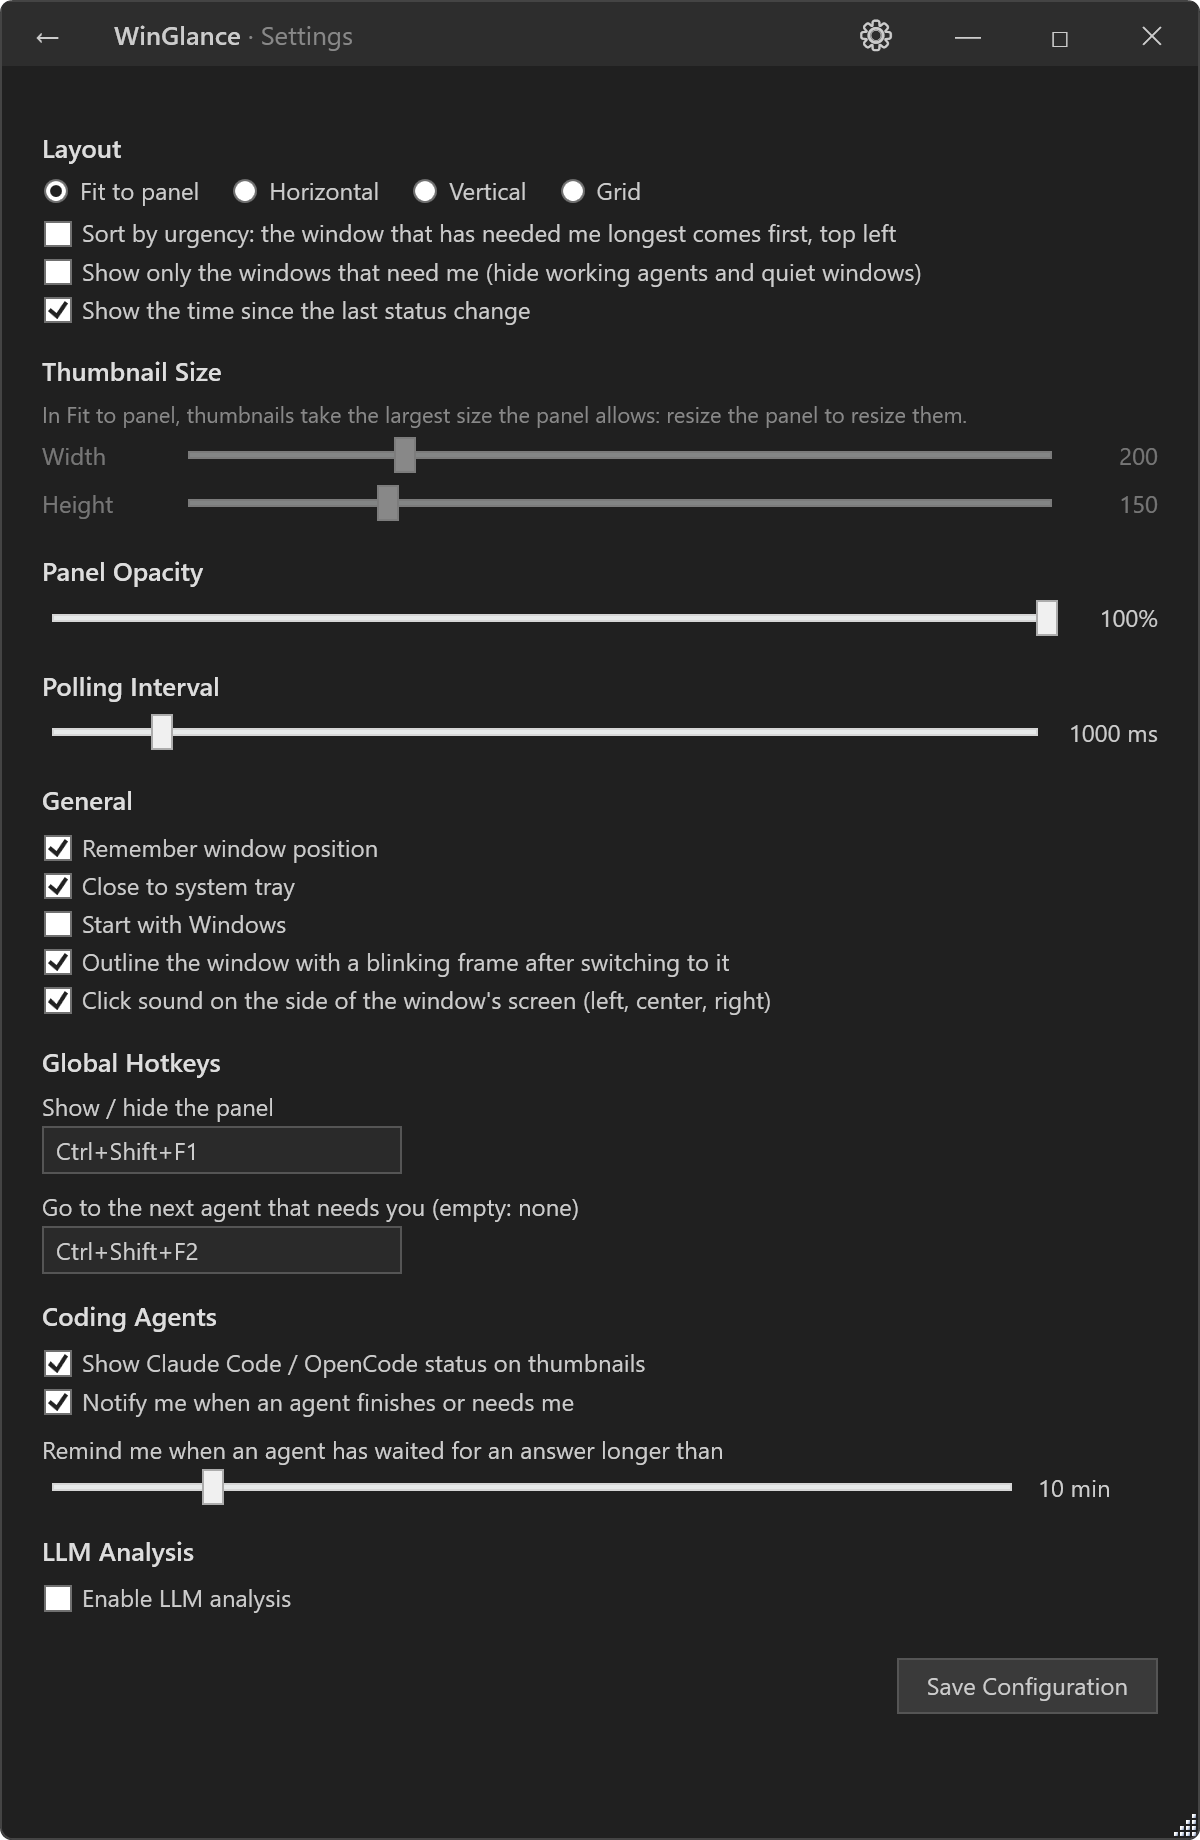
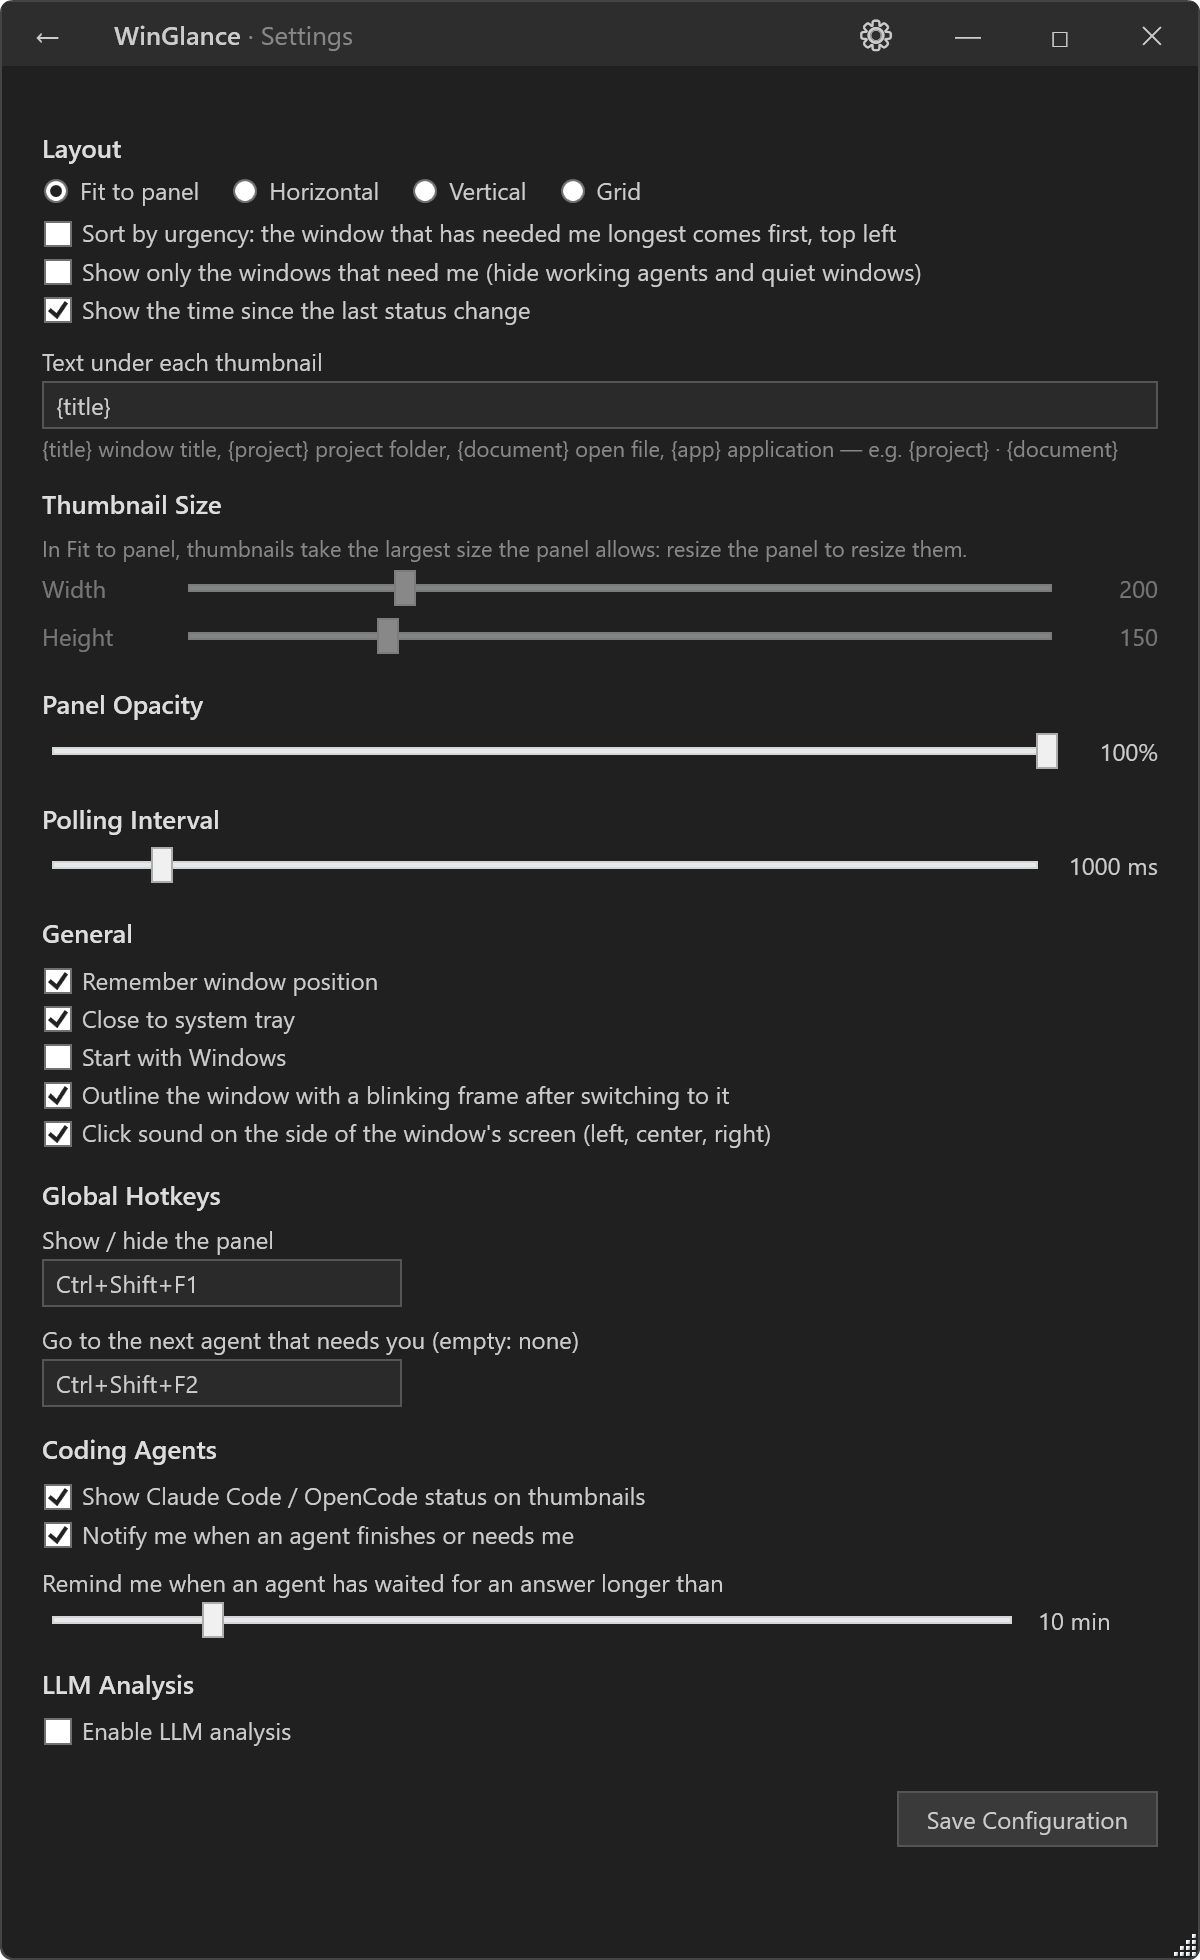
Let a template set the text under each thumbnail
titleFormat (Settings > Layout, default "{title}") replaces {title},
{project} (agent folder, otherwise the title part before the
application name), {document} (first title part) and {app}, so that
for instance "{project} · {document}" keeps the project readable when
a long title is cut. The full title stays in the tooltip; a result made
of separators only falls back to the title. Applied live, saved with
the settings; manual, specification, architecture and the Settings
screenshot updated.

diff --git a/src/WinGlance/Views/SettingsTab.xaml b/src/WinGlance/Views/SettingsTab.xaml
@@ -143,6 +143,13 @@
             <CheckBox Content="Show the time since the last status change"
                       IsChecked="{Binding ShowStatusTime}"
                       Foreground="{DynamicResource PrimaryText}" Margin="0,2" />
+            <TextBlock Text="Text under each thumbnail" Style="{StaticResource Label}" Margin="0,8,0,2" />
+            <TextBox Text="{Binding TitleFormat, UpdateSourceTrigger=PropertyChanged}"
+                     Background="{DynamicResource InputBackground}" Foreground="{DynamicResource PrimaryText}"
+                     BorderBrush="{DynamicResource InputBorder}" Padding="4,3"
+                     AutomationProperties.Name="Text under each thumbnail" />
+            <TextBlock Text="{}{title} window title, {project} project folder, {document} open file, {app} application — e.g. {project} · {document}"
+                       Foreground="{DynamicResource DimText}" FontSize="11" TextWrapping="Wrap" Margin="0,2,0,0" />
 
             <!-- ── Thumbnail Size ─────────────────────────── -->
             <TextBlock Text="Thumbnail Size" Style="{StaticResource SectionHeader}" />

diff --git a/src/WinGlance/Views/PreviewTab.xaml b/src/WinGlance/Views/PreviewTab.xaml
@@ -204,7 +204,7 @@
                                         </TextBlock>
 
                                         <!-- Window title -->
-                                        <TextBlock Text="{Binding Title}"
+                                        <TextBlock Text="{Binding DisplayText}"
                                                    Foreground="{DynamicResource SecondaryText}"
                                                    FontSize="11"
                                                    Margin="4,2,4,2"

diff --git a/src/WinGlance/Services/WindowTitleFormat.cs b/src/WinGlance/Services/WindowTitleFormat.cs
@@ -1,0 +1,69 @@
+using WinGlance.Models;
+
+namespace WinGlance.Services;
+
+/// <summary>
+/// Builds the text shown under a thumbnail from a template set in Settings, e.g.
+/// "{project} · {document}". The full window title stays in the tooltip.
+/// </summary>
+internal static class WindowTitleFormat
+{
+    /// <summary>The default template: the window title, as before templates existed.</summary>
+    public const string Default = "{title}";
+
+    // Separators of window titles ("file - Folder - Visual Studio Code")
+    private static readonly string[] Separators = [" - ", " — ", " – ", " | "];
+
+    /// <summary>
+    /// Replaces <c>{title}</c>, <c>{project}</c>, <c>{document}</c> and <c>{app}</c> in the
+    /// template (case-insensitive). Falls back to the window title when the result is blank.
+    /// </summary>
+    public static string Apply(string? template, TrackedWindow window)
+    {
+        if (string.IsNullOrWhiteSpace(template))
+            return window.Title;
+
+        var text = template
+            .Replace("{title}", window.Title, StringComparison.OrdinalIgnoreCase)
+            .Replace("{project}", ProjectOf(window), StringComparison.OrdinalIgnoreCase)
+            .Replace("{document}", DocumentOf(window.Title), StringComparison.OrdinalIgnoreCase)
+            .Replace("{app}", window.DisplayName, StringComparison.OrdinalIgnoreCase)
+            .Trim();
+
+        // A template whose fields are all empty must not leave the thumbnail unnamed
+        return text.Trim(' ', '·', '-', '|', '—', '–').Length == 0 ? window.Title : text;
+    }
+
+    /// <summary>
+    /// The project of a window: the folder of its coding agent when there is one, otherwise the
+    /// title segment before the application name ("file - Folder - Visual Studio Code" → "Folder"),
+    /// or the whole title when it has a single segment.
+    /// </summary>
+    public static string ProjectOf(TrackedWindow window)
+    {
+        if (!string.IsNullOrWhiteSpace(window.Agent?.Project))
+            return window.Agent!.Project!;
+
+        var segments = Segments(window.Title);
+        return segments.Length switch
+        {
+            0 => string.Empty,
+            1 => segments[0],
+            2 => segments[0],
+            _ => segments[^2],
+        };
+    }
+
+    /// <summary>The first segment of a title: the open file or document ("Readme.md - Folder - App" → "Readme.md").</summary>
+    public static string DocumentOf(string title)
+    {
+        var segments = Segments(title);
+        return segments.Length == 0 ? string.Empty : segments[0];
+    }
+
+    private static string[] Segments(string title) =>
+        title.Split(Separators, StringSplitOptions.RemoveEmptyEntries | StringSplitOptions.TrimEntries)
+            .Select(s => s.TrimStart('●', ' ')) // VS Code's unsaved-changes dot
+            .Where(s => s.Length > 0)
+            .ToArray();
+}

diff --git a/src/WinGlance.Tests/Services/WindowTitleFormatTests.cs b/src/WinGlance.Tests/Services/WindowTitleFormatTests.cs
@@ -1,0 +1,69 @@
+using WinGlance.Models;
+using WinGlance.Services;
+
+namespace WinGlance.Tests.Services;
+
+public class WindowTitleFormatTests
+{
+    private const string VsCodeTitle = "Adaptation française de la doc - Claude4Business - Visual Studio Code";
+
+    private static TrackedWindow Window(string title, string? agentFolder = null)
+    {
+        var window = new TrackedWindow((IntPtr)1, "Code", "VS Code") { Title = title };
+        if (agentFolder is not null)
+        {
+            var session = new AgentSession(AgentKind.Claude, 1, agentFolder, AgentStatus.Idle, null);
+            window.Agent = AgentBadge.FromSessions([session]);
+        }
+
+        return window;
+    }
+
+    [Theory]
+    [InlineData("{title}", VsCodeTitle)]
+    [InlineData("{project}", "Claude4Business")]
+    [InlineData("{document}", "Adaptation française de la doc")]
+    [InlineData("{app}", "VS Code")]
+    [InlineData("{project} · {document}", "Claude4Business · Adaptation française de la doc")]
+    [InlineData("{PROJECT}", "Claude4Business")] // placeholders ignore case
+    public void Apply_ReplacesThePlaceholders(string template, string expected)
+    {
+        Assert.Equal(expected, WindowTitleFormat.Apply(template, Window(VsCodeTitle)));
+    }
+
+    [Theory]
+    [InlineData(null)]
+    [InlineData("   ")]
+    public void Apply_BlankTemplate_ShowsTheTitle(string? template)
+    {
+        Assert.Equal(VsCodeTitle, WindowTitleFormat.Apply(template, Window(VsCodeTitle)));
+    }
+
+    [Fact]
+    public void Apply_OnlySeparatorsLeft_FallsBackToTheTitle()
+    {
+        // A template whose fields come out empty must not leave the thumbnail unnamed
+        Assert.Equal(VsCodeTitle, WindowTitleFormat.Apply(" · - ", Window(VsCodeTitle)));
+    }
+
+    [Fact]
+    public void ProjectOf_AgentWindow_UsesTheAgentFolder()
+    {
+        Assert.Equal("BookAmPlus", WindowTitleFormat.ProjectOf(Window(VsCodeTitle, @"w:\00_DEV\BookAmPlus")));
+    }
+
+    [Theory]
+    [InlineData("api-server", "api-server")]
+    [InlineData("Untitled - Notepad", "Untitled")]
+    [InlineData("● main.cs - WinGlance - Visual Studio Code", "WinGlance")]
+    public void ProjectOf_FromTheTitle(string title, string expected)
+    {
+        Assert.Equal(expected, WindowTitleFormat.ProjectOf(Window(title)));
+    }
+
+    [Fact]
+    public void DocumentOf_StripsTheUnsavedChangesDot()
+    {
+        Assert.Equal("main.cs", WindowTitleFormat.DocumentOf("● main.cs - WinGlance - Visual Studio Code"));
+    }
+}

diff --git a/src/WinGlance/ViewModels/SettingsViewModel.cs b/src/WinGlance/ViewModels/SettingsViewModel.cs
@@ -35,6 +35,7 @@ internal sealed class SettingsViewModel : ViewModelBase
     private bool _sortByUrgency;
     private bool _showOnlyWindowsThatNeedMe;
     private bool _showStatusTime;
+    private string _titleFormat;
     private int _remindAfterMinutes;
 
     // LLM settings
@@ -80,6 +81,7 @@ internal sealed class SettingsViewModel : ViewModelBase
         _sortByUrgency = config.SortByUrgency;
         _showOnlyWindowsThatNeedMe = config.ShowOnlyWindowsThatNeedMe;
         _showStatusTime = config.ShowStatusTime;
+        _titleFormat = config.TitleFormat;
         _remindAfterMinutes = config.AgentDetection.RemindAfterMinutes;
 
         _llmEnabled = config.Llm.Enabled;
@@ -145,6 +147,20 @@ internal sealed class SettingsViewModel : ViewModelBase
         {
             if (SetProperty(ref _showStatusTime, value))
                 _previewViewModel.ShowStatusTime = value;
+        }
+    }
+
+    /// <summary>
+    /// Template of the text under each thumbnail ({title}, {project}, {document}, {app}).
+    /// Applied live to the preview; persisted by <see cref="Save"/>.
+    /// </summary>
+    public string TitleFormat
+    {
+        get => _titleFormat;
+        set
+        {
+            if (SetProperty(ref _titleFormat, value ?? string.Empty))
+                _previewViewModel.TitleFormat = _titleFormat;
         }
     }
 
@@ -473,6 +489,7 @@ internal sealed class SettingsViewModel : ViewModelBase
         _config.SortByUrgency = SortByUrgency;
         _config.ShowOnlyWindowsThatNeedMe = ShowOnlyWindowsThatNeedMe;
         _config.ShowStatusTime = ShowStatusTime;
+        _config.TitleFormat = string.IsNullOrWhiteSpace(TitleFormat) ? Services.WindowTitleFormat.Default : TitleFormat.Trim();
         _config.ThumbnailWidth = ThumbnailWidth;
         _config.ThumbnailHeight = ThumbnailHeight;
         _config.PanelOpacity = PanelOpacity;

diff --git a/src/WinGlance/ViewModels/PreviewViewModel.cs b/src/WinGlance/ViewModels/PreviewViewModel.cs
@@ -39,6 +39,7 @@ internal sealed class PreviewViewModel : ViewModelBase, IDisposable
     private bool _sortByUrgency;
     private bool _showOnlyWindowsThatNeedMe;
     private bool _showStatusTime = true;
+    private string _titleFormat = WindowTitleFormat.Default;
     private bool _isPointerOver;
     private bool _isEmptyAfterFilter;
     private int _agentsWaiting;
@@ -353,6 +354,22 @@ internal sealed class PreviewViewModel : ViewModelBase, IDisposable
     }
 
     /// <summary>
+    /// Template of the text shown under each thumbnail, e.g. "{project} · {document}"
+    /// (see <see cref="WindowTitleFormat"/>). Applied at once.
+    /// </summary>
+    public string TitleFormat
+    {
+        get => _titleFormat;
+        set
+        {
+            if (!SetProperty(ref _titleFormat, string.IsNullOrWhiteSpace(value) ? WindowTitleFormat.Default : value))
+                return;
+            foreach (var window in GetWindowsSnapshot())
+                window.DisplayText = WindowTitleFormat.Apply(_titleFormat, window);
+        }
+    }
+
+    /// <summary>
     /// How long an agent may wait for an answer before its border blinks and a reminder is
     /// raised; <see cref="TimeSpan.Zero"/> turns reminders off.
     /// </summary>
@@ -482,6 +499,8 @@ internal sealed class PreviewViewModel : ViewModelBase, IDisposable
         }
 
         UpdateStatusAge(window, now);
+        // After the agent update: {project} uses the agent's folder
+        window.DisplayText = WindowTitleFormat.Apply(_titleFormat, window);
 
         // The user looking at the window is answering it: no blinking, no reminder
         var overdue = window.Agent?.Status == AgentStatus.Waiting

diff --git a/src/WinGlance/Models/TrackedWindow.cs b/src/WinGlance/Models/TrackedWindow.cs
@@ -21,6 +21,7 @@ public class TrackedWindow : ViewModels.ViewModelBase, IEquatable<TrackedWindow>
     private bool _needsAgentAttention;
     private string _statusAge = string.Empty;
     private bool _isEscalated;
+    private string? _displayText;
 
     /// <summary>
     /// Creates a new tracked window with immutable identity properties.
@@ -61,7 +62,21 @@ public class TrackedWindow : ViewModels.ViewModelBase, IEquatable<TrackedWindow>
     public string Title
     {
         get => _title;
-        set => SetProperty(ref _title, value);
+        set
+        {
+            if (SetProperty(ref _title, value) && _displayText is null)
+                OnPropertyChanged(nameof(DisplayText));
+        }
+    }
+
+    /// <summary>
+    /// Text shown under the thumbnail, built from the title template of the settings
+    /// (<see cref="Services.WindowTitleFormat"/>); the title until a template is applied.
+    /// </summary>
+    public string DisplayText
+    {
+        get => _displayText ?? _title;
+        set => SetProperty(ref _displayText, value);
     }
 
     /// <summary>Application icon extracted from the window or its class.</summary>

diff --git a/src/WinGlance.Tests/ViewModels/PreviewViewModelTests.cs b/src/WinGlance.Tests/ViewModels/PreviewViewModelTests.cs
@@ -941,4 +941,18 @@ public class PreviewViewModelTests
         vm.ShowOnlyWindowsThatNeedMe = false;
         Assert.False(vm.IsEmptyAfterFilter);
     }
+
+    [Fact]
+    public void TitleFormat_AppliesToTheWindowsAtOnceAndAfterEachScan()
+    {
+        using var vm = new PreviewViewModel();
+        vm.MergeResults([Scanned(1, "Readme.md - WinGlance - Visual Studio Code")]);
+        Assert.Equal("Readme.md - WinGlance - Visual Studio Code", vm.Windows.Single().DisplayText);
+
+        vm.TitleFormat = "{project} · {document}";
+        Assert.Equal("WinGlance · Readme.md", vm.Windows.Single().DisplayText);
+
+        vm.MergeResults([Scanned(1, "Notes.md - WinGlance - Visual Studio Code")]);
+        Assert.Equal("WinGlance · Notes.md", vm.Windows.Single().DisplayText);
+    }
 }

diff --git a/src/WinGlance/Services/ConfigService.cs b/src/WinGlance/Services/ConfigService.cs
@@ -124,6 +124,8 @@ internal sealed class ConfigService
         config.Llm.Prompt = string.IsNullOrWhiteSpace(config.Llm.Prompt) ? LlmConfig.DefaultPrompt : config.Llm.Prompt;
         config.Llm.StaleThresholdSeconds = Math.Clamp(config.Llm.StaleThresholdSeconds, 10, 120);
 
+        config.TitleFormat = string.IsNullOrWhiteSpace(config.TitleFormat) ? defaults.TitleFormat : config.TitleFormat;
+
         config.AgentDetection ??= new AgentDetectionConfig();
         config.AgentDetection.RefreshIntervalMs = Math.Clamp(config.AgentDetection.RefreshIntervalMs, 1000, 60000);
         config.AgentDetection.RemindAfterMinutes = Math.Clamp(config.AgentDetection.RemindAfterMinutes, 0, 60);

diff --git a/src/WinGlance/Models/AppConfig.cs b/src/WinGlance/Models/AppConfig.cs
@@ -25,6 +25,12 @@ internal sealed class AppConfig
     /// <summary>Shows under each thumbnail the time since the window's status last changed (default on).</summary>
     public bool ShowStatusTime { get; set; } = true;
 
+    /// <summary>
+    /// Template of the text under each thumbnail: {title}, {project}, {document} and {app} are
+    /// replaced (default "{title}"); the full title stays in the tooltip.
+    /// </summary>
+    public string TitleFormat { get; set; } = "{title}";
+
     /// <summary>Thumbnail width in pixels, 100-500 (default 200); not used by the "fit" layout.</summary>
     public int ThumbnailWidth { get; set; } = 200;
 

diff --git a/src/WinGlance.Tests/ViewModels/SettingsViewModelTests.cs b/src/WinGlance.Tests/ViewModels/SettingsViewModelTests.cs
@@ -536,4 +536,16 @@ public class SettingsViewModelTests : IDisposable
         Assert.Equal(expected, vm.RemindAfterMinutes);
         Assert.Equal(text, vm.RemindAfterText);
     }
+
+    [Fact]
+    public void TitleFormat_AppliesLiveAndIsSaved()
+    {
+        var vm = CreateVm();
+
+        vm.TitleFormat = "{project}";
+        vm.Save();
+
+        Assert.Equal("{project}", _previewVm.TitleFormat);
+        Assert.Equal("{project}", _configService.Load().TitleFormat);
+    }
 }

diff --git a/src/WinGlance.Tests/Services/ConfigServiceTests.cs b/src/WinGlance.Tests/Services/ConfigServiceTests.cs
@@ -268,4 +268,12 @@ public class ConfigServiceTests : IDisposable
 
         Assert.Equal(expected, ConfigService.Normalize(config).AgentDetection.RemindAfterMinutes);
     }
+
+    [Fact]
+    public void Normalize_BlankTitleFormat_FallsBackToTheTitle()
+    {
+        var config = new AppConfig { TitleFormat = "  " };
+
+        Assert.Equal("{title}", ConfigService.Normalize(config).TitleFormat);
+    }
 }
